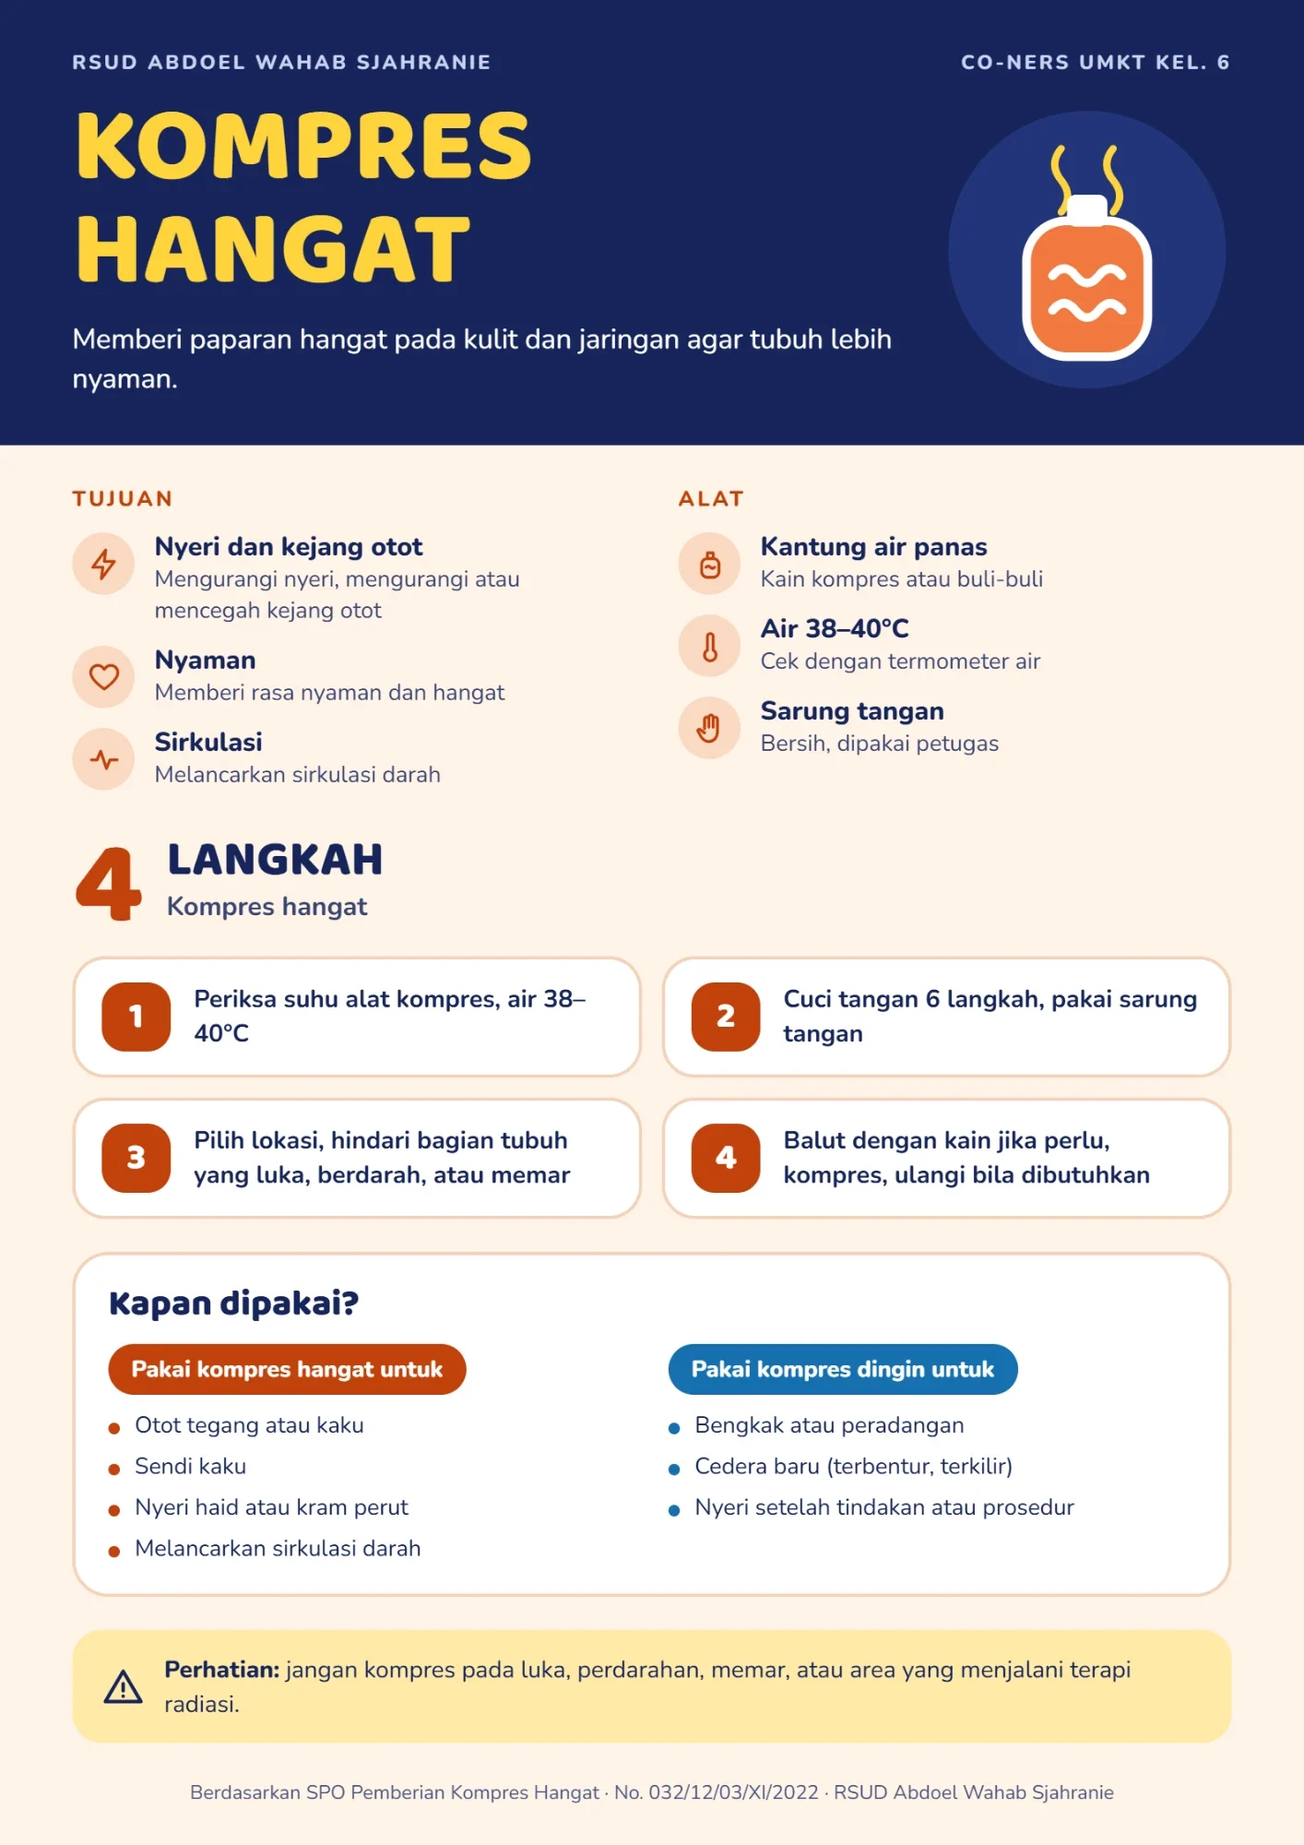
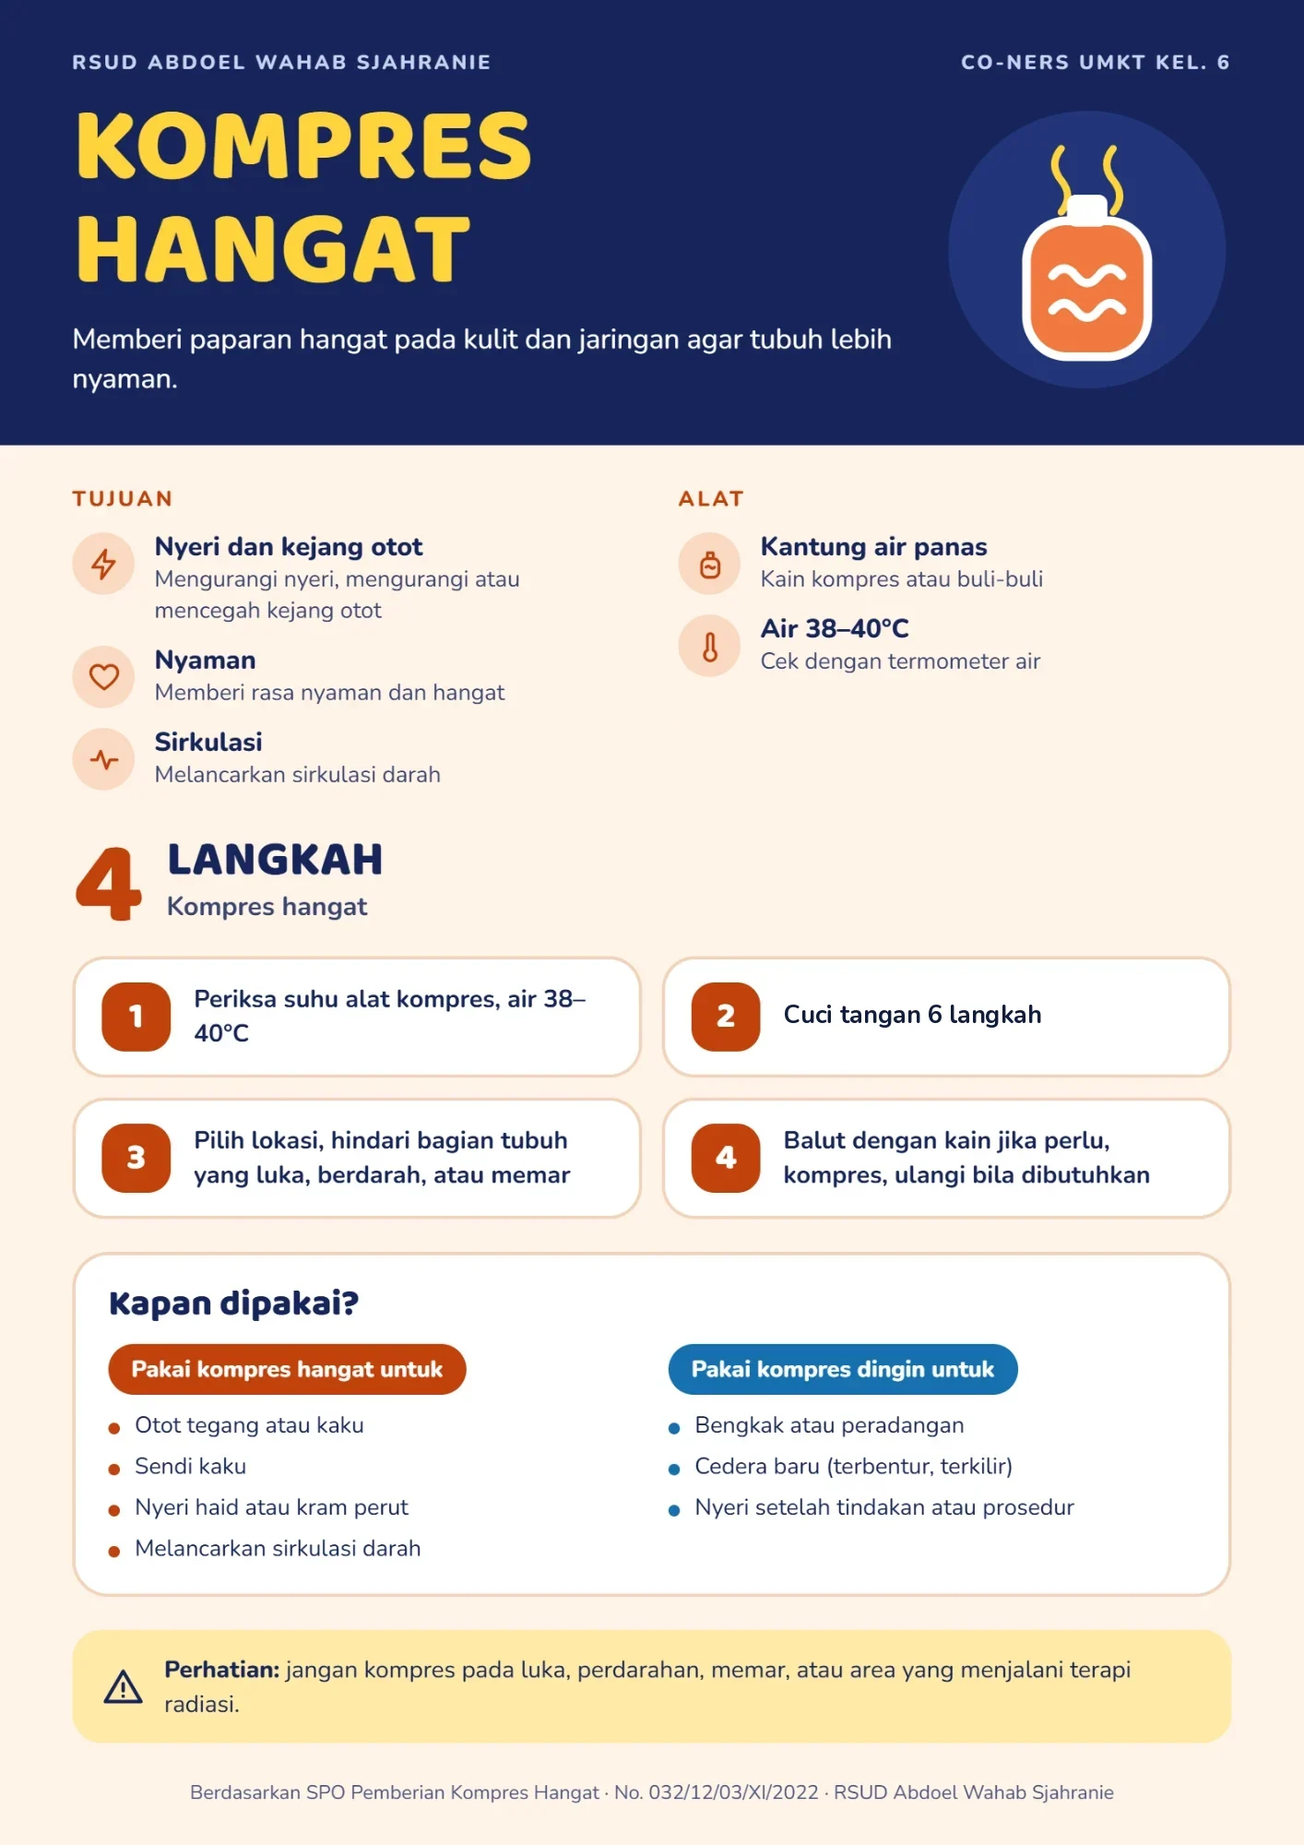
Revisi kompres hangat & dingin (poster + teks), nama ETAM SMART, galeri poster hanya di Manajemen nyeri
Claude-Session: https://claude.ai/code/session_017v6r4Dh7K6F4WkuNDGeXEq

Changed region(s): [[0.5912, 0.527, 0.9335, 0.589], [0.4979, 0.372, 0.7157, 0.434]]

diff --git a/halaman/edukasi/manajemen-nyeri.html b/halaman/edukasi/manajemen-nyeri.html
@@ -3,13 +3,13 @@
 <head>
   <meta charset="utf-8">
   <meta name="viewport" content="width=device-width, initial-scale=1">
-  <title>Manajemen nyeri · Etam Smart RSUD AWS</title>
+  <title>Manajemen nyeri · ETAM SMART RSUD AWS</title>
   <meta name="description" content="Manajemen nyeri tanpa obat untuk pasien RSUD Abdoel Wahab Sjahranie: relaksasi napas dalam, kompres dingin, dan kompres hangat, lengkap dengan poster.">
   <link rel="canonical" href="__SITE_URL__/halaman/edukasi/manajemen-nyeri.html">
   <meta property="og:type" content="website">
-  <meta property="og:site_name" content="Etam Smart · RSUD Abdoel Wahab Sjahranie">
+  <meta property="og:site_name" content="ETAM SMART · RSUD Abdoel Wahab Sjahranie">
   <meta property="og:locale" content="id_ID">
-  <meta property="og:title" content="Manajemen nyeri · Etam Smart RSUD AWS">
+  <meta property="og:title" content="Manajemen nyeri · ETAM SMART RSUD AWS">
   <meta property="og:description" content="Manajemen nyeri tanpa obat untuk pasien RSUD Abdoel Wahab Sjahranie: relaksasi napas dalam, kompres dingin, dan kompres hangat, lengkap dengan poster.">
   <meta property="og:url" content="__SITE_URL__/halaman/edukasi/manajemen-nyeri.html">
   <meta property="og:image" content="__SITE_URL__/assets/img/og.jpg">
@@ -109,13 +109,13 @@
               <li><strong>Peradangan</strong>: mengurangi peradangan</li>
               </ul></div>
               <div><h3 class="h4">Alat</h3><ul class="ticks mt-s">
-              <li><strong>Kompres dingin</strong>: kantung es atau kemasan gel beku</li>
+              <li><strong>Kompres dingin</strong>: kantung es, kemasan gel beku, atau air es/es batu bila tidak ada alat kompres dingin</li>
               <li><strong>Pembalut</strong>: kain atau handuk</li>
               </ul></div>
             </div>
             <h3 class="h4 mt-l">Langkah</h3>
             <ol class="rows mt-s">
-              <li><p class="big">Cuci tangan, pakai sarung tangan, jaga privasi.</p></li>
+              <li><p class="big">Cuci tangan 6 langkah (<a href="cuci-tangan.html">lihat caranya</a>).</p></li>
               <li><p class="big">Pilih alat kompres yang nyaman dan mudah didapat.</p></li>
               <li><p class="big">Pilih lokasi, balut alat dengan kain atau handuk jika perlu.</p></li>
               <li><p class="big">Kompres pada daerah yang sudah dipilih.</p></li>
@@ -164,13 +164,12 @@
               <div><h3 class="h4">Alat</h3><ul class="ticks mt-s">
               <li><strong>Kantung air panas</strong>: kain kompres atau buli-buli</li>
               <li><strong>Air 38–40°C</strong>: cek dengan termometer air</li>
-              <li><strong>Sarung tangan</strong>: bersih, dipakai petugas</li>
               </ul></div>
             </div>
             <h3 class="h4 mt-l">Langkah</h3>
             <ol class="rows mt-s">
               <li><p class="big">Periksa suhu alat kompres, air 38–40°C.</p></li>
-              <li><p class="big">Cuci tangan 6 langkah (<a href="cuci-tangan.html">lihat caranya</a>), pakai sarung tangan.</p></li>
+              <li><p class="big">Cuci tangan 6 langkah (<a href="cuci-tangan.html">lihat caranya</a>).</p></li>
               <li><p class="big">Pilih lokasi, hindari bagian tubuh yang luka, berdarah, atau memar.</p></li>
               <li><p class="big">Balut dengan kain jika perlu, kompres, ulangi bila dibutuhkan.</p></li>
             </ol>

diff --git a/halaman/edukasi/index.html b/halaman/edukasi/index.html
@@ -3,13 +3,13 @@
 <head>
   <meta charset="utf-8">
   <meta name="viewport" content="width=device-width, initial-scale=1">
-  <title>Edukasi pasien · Etam Smart RSUD AWS</title>
+  <title>Edukasi pasien · ETAM SMART RSUD AWS</title>
   <meta name="description" content="Edukasi untuk pasien dan keluarga di RSUD Abdoel Wahab Sjahranie: cuci tangan, pencegahan infeksi, manajemen nyeri, dan pulang dengan aman.">
   <link rel="canonical" href="__SITE_URL__/halaman/edukasi/index.html">
   <meta property="og:type" content="website">
-  <meta property="og:site_name" content="Etam Smart · RSUD Abdoel Wahab Sjahranie">
+  <meta property="og:site_name" content="ETAM SMART · RSUD Abdoel Wahab Sjahranie">
   <meta property="og:locale" content="id_ID">
-  <meta property="og:title" content="Edukasi pasien · Etam Smart RSUD AWS">
+  <meta property="og:title" content="Edukasi pasien · ETAM SMART RSUD AWS">
   <meta property="og:description" content="Edukasi untuk pasien dan keluarga di RSUD Abdoel Wahab Sjahranie: cuci tangan, pencegahan infeksi, manajemen nyeri, dan pulang dengan aman.">
   <meta property="og:url" content="__SITE_URL__/halaman/edukasi/index.html">
   <meta property="og:image" content="__SITE_URL__/assets/img/og.jpg">
@@ -73,29 +73,6 @@
       </div>
     </section>
 
-    <section class="sec bg-2">
-      <div class="wrap">
-        <div class="sec-head">
-          <span class="label reveal"><span class="n">*</span> Poster edukasi</span>
-          <h2 class="h2 reveal">Poster manajemen nyeri</h2>
-          <p class="lead reveal">Ketuk poster untuk membaca penjelasannya, atau buka halaman Manajemen nyeri untuk mengunduh dan mencetaknya.</p>
-        </div>
-        <div class="poster-grid">
-          <a class="poster-thumb reveal" href="manajemen-nyeri.html#relaksasi">
-            <img src="../../assets/img/edukasi/poster/relaksasi-napas-dalam.webp" width="1414" height="2000" alt="Poster Relaksasi napas dalam" loading="lazy">
-            <span>Relaksasi napas dalam</span>
-          </a>
-          <a class="poster-thumb reveal" href="manajemen-nyeri.html#kompres-dingin">
-            <img src="../../assets/img/edukasi/poster/kompres-dingin.webp" width="1414" height="2000" alt="Poster Kompres dingin" loading="lazy">
-            <span>Kompres dingin</span>
-          </a>
-          <a class="poster-thumb reveal" href="manajemen-nyeri.html#kompres-hangat">
-            <img src="../../assets/img/edukasi/poster/kompres-hangat.webp" width="1414" height="2000" alt="Poster Kompres hangat" loading="lazy">
-            <span>Kompres hangat</span>
-          </a>
-        </div>
-      </div>
-    </section>
   </main>
 
   <footer id="site-footer"></footer>

diff --git a/index.html b/index.html
@@ -3,13 +3,13 @@
 <head>
   <meta charset="utf-8">
   <meta name="viewport" content="width=device-width, initial-scale=1">
-  <title>Etam Smart · RSUD Abdoel Wahab Sjahranie Samarinda</title>
+  <title>ETAM SMART · RSUD Abdoel Wahab Sjahranie Samarinda</title>
   <meta name="description" content="Informasi untuk pasien dan keluarga di RSUD Abdoel Wahab Sjahranie Samarinda: profil rumah sakit, ruang rawat inap, edukasi, serta hak dan kewajiban pasien.">
   <link rel="canonical" href="__SITE_URL__/">
   <meta property="og:type" content="website">
-  <meta property="og:site_name" content="Etam Smart · RSUD Abdoel Wahab Sjahranie">
+  <meta property="og:site_name" content="ETAM SMART · RSUD Abdoel Wahab Sjahranie">
   <meta property="og:locale" content="id_ID">
-  <meta property="og:title" content="Etam Smart · RSUD Abdoel Wahab Sjahranie Samarinda">
+  <meta property="og:title" content="ETAM SMART · RSUD Abdoel Wahab Sjahranie Samarinda">
   <meta property="og:description" content="Informasi untuk pasien dan keluarga di RSUD Abdoel Wahab Sjahranie Samarinda: profil rumah sakit, ruang rawat inap, edukasi, serta hak dan kewajiban pasien.">
   <meta property="og:url" content="__SITE_URL__/">
   <meta property="og:image" content="__SITE_URL__/assets/img/og.jpg">
@@ -35,12 +35,12 @@
       <div class="wrap">
         <div class="hero-title">
           <h1 class="display">
-            <span class="line"><span>Etam Smart</span></span>
+            <span class="line"><span>ETAM SMART</span></span>
             <span class="line"><span><em>RSUD Abdoel Wahab Sjahranie</em></span></span>
           </h1>
         </div>
         <div class="hero-foot">
-          <p>Etam Smart adalah layanan informasi untuk pasien dan keluarga RSUD AWS: profil rumah sakit, ruang rawat inap, edukasi pencegahan infeksi, serta hak dan kewajiban pasien.</p>
+          <p>ETAM SMART adalah layanan informasi untuk pasien dan keluarga RSUD AWS: profil rumah sakit, ruang rawat inap, edukasi pencegahan infeksi, serta hak dan kewajiban pasien.</p>
           <div>
             <span class="k">Telepon</span>
             <span class="v" data-site="telpRs"></span>

diff --git a/halaman/hak-kewajiban.html b/halaman/hak-kewajiban.html
@@ -3,13 +3,13 @@
 <head>
   <meta charset="utf-8">
   <meta name="viewport" content="width=device-width, initial-scale=1">
-  <title>Hak & Kewajiban Pasien · Etam Smart RSUD AWS</title>
+  <title>Hak & Kewajiban Pasien · ETAM SMART RSUD AWS</title>
   <meta name="description" content="Hak dan kewajiban pasien menurut Undang-Undang Nomor 17 Tahun 2023 tentang Kesehatan, dan cara menyampaikan keluhan di RSUD Abdoel Wahab Sjahranie.">
   <link rel="canonical" href="__SITE_URL__/halaman/hak-kewajiban.html">
   <meta property="og:type" content="website">
-  <meta property="og:site_name" content="Etam Smart · RSUD Abdoel Wahab Sjahranie">
+  <meta property="og:site_name" content="ETAM SMART · RSUD Abdoel Wahab Sjahranie">
   <meta property="og:locale" content="id_ID">
-  <meta property="og:title" content="Hak &amp; Kewajiban Pasien · Etam Smart RSUD AWS">
+  <meta property="og:title" content="Hak &amp; Kewajiban Pasien · ETAM SMART RSUD AWS">
   <meta property="og:description" content="Hak dan kewajiban pasien menurut Undang-Undang Nomor 17 Tahun 2023 tentang Kesehatan, dan cara menyampaikan keluhan di RSUD Abdoel Wahab Sjahranie.">
   <meta property="og:url" content="__SITE_URL__/halaman/hak-kewajiban.html">
   <meta property="og:image" content="__SITE_URL__/assets/img/og.jpg">

diff --git a/halaman/edukasi/pencegahan-infeksi.html b/halaman/edukasi/pencegahan-infeksi.html
@@ -3,13 +3,13 @@
 <head>
   <meta charset="utf-8">
   <meta name="viewport" content="width=device-width, initial-scale=1">
-  <title>Pencegahan infeksi · Etam Smart RSUD AWS</title>
+  <title>Pencegahan infeksi · ETAM SMART RSUD AWS</title>
   <meta name="description" content="Cara mencegah infeksi bagi pasien dan pengunjung RSUD Abdoel Wahab Sjahranie: cuci tangan, masker, etika batuk, dan kebersihan.">
   <link rel="canonical" href="__SITE_URL__/halaman/edukasi/pencegahan-infeksi.html">
   <meta property="og:type" content="website">
-  <meta property="og:site_name" content="Etam Smart · RSUD Abdoel Wahab Sjahranie">
+  <meta property="og:site_name" content="ETAM SMART · RSUD Abdoel Wahab Sjahranie">
   <meta property="og:locale" content="id_ID">
-  <meta property="og:title" content="Pencegahan infeksi · Etam Smart RSUD AWS">
+  <meta property="og:title" content="Pencegahan infeksi · ETAM SMART RSUD AWS">
   <meta property="og:description" content="Cara mencegah infeksi bagi pasien dan pengunjung RSUD Abdoel Wahab Sjahranie: cuci tangan, masker, etika batuk, dan kebersihan.">
   <meta property="og:url" content="__SITE_URL__/halaman/edukasi/pencegahan-infeksi.html">
   <meta property="og:image" content="__SITE_URL__/assets/img/og.jpg">

diff --git a/halaman/ruangan/teratai/index.html b/halaman/ruangan/teratai/index.html
@@ -3,13 +3,13 @@
 <head>
   <meta charset="utf-8">
   <meta name="viewport" content="width=device-width, initial-scale=1">
-  <title>Ruang Teratai · Etam Smart RSUD AWS</title>
+  <title>Ruang Teratai · ETAM SMART RSUD AWS</title>
   <meta name="description" content="Ruang Teratai, ruang rawat inap RSUD Abdoel Wahab Sjahranie Samarinda: petugas, denah, fasilitas, tata tertib, dan jadwal harian.">
   <link rel="canonical" href="__SITE_URL__/halaman/ruangan/teratai/index.html">
   <meta property="og:type" content="website">
-  <meta property="og:site_name" content="Etam Smart · RSUD Abdoel Wahab Sjahranie">
+  <meta property="og:site_name" content="ETAM SMART · RSUD Abdoel Wahab Sjahranie">
   <meta property="og:locale" content="id_ID">
-  <meta property="og:title" content="Ruang Teratai · Etam Smart RSUD AWS">
+  <meta property="og:title" content="Ruang Teratai · ETAM SMART RSUD AWS">
   <meta property="og:description" content="Ruang Teratai, ruang rawat inap RSUD Abdoel Wahab Sjahranie Samarinda: petugas, denah, fasilitas, tata tertib, dan jadwal harian.">
   <meta property="og:url" content="__SITE_URL__/halaman/ruangan/teratai/index.html">
   <meta property="og:image" content="__SITE_URL__/assets/img/og.jpg">

diff --git a/halaman/edukasi/pulang.html b/halaman/edukasi/pulang.html
@@ -3,13 +3,13 @@
 <head>
   <meta charset="utf-8">
   <meta name="viewport" content="width=device-width, initial-scale=1">
-  <title>Pulang dengan aman · Etam Smart RSUD AWS</title>
+  <title>Pulang dengan aman · ETAM SMART RSUD AWS</title>
   <meta name="description" content="Persiapan sebelum pasien pulang dari RSUD Abdoel Wahab Sjahranie dan tanda bahaya yang perlu diwaspadai keluarga di rumah.">
   <link rel="canonical" href="__SITE_URL__/halaman/edukasi/pulang.html">
   <meta property="og:type" content="website">
-  <meta property="og:site_name" content="Etam Smart · RSUD Abdoel Wahab Sjahranie">
+  <meta property="og:site_name" content="ETAM SMART · RSUD Abdoel Wahab Sjahranie">
   <meta property="og:locale" content="id_ID">
-  <meta property="og:title" content="Pulang dengan aman · Etam Smart RSUD AWS">
+  <meta property="og:title" content="Pulang dengan aman · ETAM SMART RSUD AWS">
   <meta property="og:description" content="Persiapan sebelum pasien pulang dari RSUD Abdoel Wahab Sjahranie dan tanda bahaya yang perlu diwaspadai keluarga di rumah.">
   <meta property="og:url" content="__SITE_URL__/halaman/edukasi/pulang.html">
   <meta property="og:image" content="__SITE_URL__/assets/img/og.jpg">

diff --git a/halaman/edukasi/cuci-tangan.html b/halaman/edukasi/cuci-tangan.html
@@ -3,13 +3,13 @@
 <head>
   <meta charset="utf-8">
   <meta name="viewport" content="width=device-width, initial-scale=1">
-  <title>Cuci tangan · Etam Smart RSUD AWS</title>
+  <title>Cuci tangan · ETAM SMART RSUD AWS</title>
   <meta name="description" content="Kapan harus mencuci tangan dan 6 langkah mencuci tangan menurut WHO, untuk pasien dan pengunjung RSUD Abdoel Wahab Sjahranie.">
   <link rel="canonical" href="__SITE_URL__/halaman/edukasi/cuci-tangan.html">
   <meta property="og:type" content="website">
-  <meta property="og:site_name" content="Etam Smart · RSUD Abdoel Wahab Sjahranie">
+  <meta property="og:site_name" content="ETAM SMART · RSUD Abdoel Wahab Sjahranie">
   <meta property="og:locale" content="id_ID">
-  <meta property="og:title" content="Cuci tangan · Etam Smart RSUD AWS">
+  <meta property="og:title" content="Cuci tangan · ETAM SMART RSUD AWS">
   <meta property="og:description" content="Kapan harus mencuci tangan dan 6 langkah mencuci tangan menurut WHO, untuk pasien dan pengunjung RSUD Abdoel Wahab Sjahranie.">
   <meta property="og:url" content="__SITE_URL__/halaman/edukasi/cuci-tangan.html">
   <meta property="og:image" content="__SITE_URL__/assets/img/og.jpg">

diff --git a/halaman/ruangan.html b/halaman/ruangan.html
@@ -3,13 +3,13 @@
 <head>
   <meta charset="utf-8">
   <meta name="viewport" content="width=device-width, initial-scale=1">
-  <title>Ruangan · Etam Smart RSUD AWS</title>
+  <title>Ruangan · ETAM SMART RSUD AWS</title>
   <meta name="description" content="Pilih ruang rawat inap RSUD Abdoel Wahab Sjahranie untuk melihat informasi petugas, denah, fasilitas, dan tata tertibnya.">
   <link rel="canonical" href="__SITE_URL__/halaman/ruangan.html">
   <meta property="og:type" content="website">
-  <meta property="og:site_name" content="Etam Smart · RSUD Abdoel Wahab Sjahranie">
+  <meta property="og:site_name" content="ETAM SMART · RSUD Abdoel Wahab Sjahranie">
   <meta property="og:locale" content="id_ID">
-  <meta property="og:title" content="Ruangan · Etam Smart RSUD AWS">
+  <meta property="og:title" content="Ruangan · ETAM SMART RSUD AWS">
   <meta property="og:description" content="Pilih ruang rawat inap RSUD Abdoel Wahab Sjahranie untuk melihat informasi petugas, denah, fasilitas, dan tata tertibnya.">
   <meta property="og:url" content="__SITE_URL__/halaman/ruangan.html">
   <meta property="og:image" content="__SITE_URL__/assets/img/og.jpg">

diff --git a/halaman/profil.html b/halaman/profil.html
@@ -3,13 +3,13 @@
 <head>
   <meta charset="utf-8">
   <meta name="viewport" content="width=device-width, initial-scale=1">
-  <title>Profil RS · Etam Smart RSUD AWS</title>
+  <title>Profil RS · ETAM SMART RSUD AWS</title>
   <meta name="description" content="Profil RSUD Abdoel Wahab Sjahranie Samarinda: sejarah, visi, misi, nilai, dan layanan unggulan.">
   <link rel="canonical" href="__SITE_URL__/halaman/profil.html">
   <meta property="og:type" content="website">
-  <meta property="og:site_name" content="Etam Smart · RSUD Abdoel Wahab Sjahranie">
+  <meta property="og:site_name" content="ETAM SMART · RSUD Abdoel Wahab Sjahranie">
   <meta property="og:locale" content="id_ID">
-  <meta property="og:title" content="Profil RS · Etam Smart RSUD AWS">
+  <meta property="og:title" content="Profil RS · ETAM SMART RSUD AWS">
   <meta property="og:description" content="Profil RSUD Abdoel Wahab Sjahranie Samarinda: sejarah, visi, misi, nilai, dan layanan unggulan.">
   <meta property="og:url" content="__SITE_URL__/halaman/profil.html">
   <meta property="og:image" content="__SITE_URL__/assets/img/og.jpg">

diff --git a/halaman/review.html b/halaman/review.html
@@ -3,13 +3,13 @@
 <head>
   <meta charset="utf-8">
   <meta name="viewport" content="width=device-width, initial-scale=1">
-  <title>Review · Etam Smart RSUD AWS</title>
+  <title>Review · ETAM SMART RSUD AWS</title>
   <meta name="description" content="Beri penilaian dan saran untuk situs informasi pasien RSUD Abdoel Wahab Sjahranie.">
   <link rel="canonical" href="__SITE_URL__/halaman/review.html">
   <meta property="og:type" content="website">
-  <meta property="og:site_name" content="Etam Smart · RSUD Abdoel Wahab Sjahranie">
+  <meta property="og:site_name" content="ETAM SMART · RSUD Abdoel Wahab Sjahranie">
   <meta property="og:locale" content="id_ID">
-  <meta property="og:title" content="Review · Etam Smart RSUD AWS">
+  <meta property="og:title" content="Review · ETAM SMART RSUD AWS">
   <meta property="og:description" content="Beri penilaian dan saran untuk situs informasi pasien RSUD Abdoel Wahab Sjahranie.">
   <meta property="og:url" content="__SITE_URL__/halaman/review.html">
   <meta property="og:image" content="__SITE_URL__/assets/img/og.jpg">

diff --git a/assets/js/main.js b/assets/js/main.js
@@ -4,7 +4,7 @@
    ========================================================= */
 
 const SITE = {
-  app: "Etam Smart",            // nama aplikasi/situs
+  app: "ETAM SMART",            // nama aplikasi/situs
   rs: "RSUD Abdoel Wahab Sjahranie",
   rsPendek: "RSUD AWS",
   kota: "Samarinda, Kalimantan Timur",
@@ -240,7 +240,7 @@ function renderFooter() {
           </ul>
         </div>
       </div>
-      <div class="foot-word" aria-hidden="true">Etam <em>Smart</em></div>
+      <div class="foot-word" aria-hidden="true">ETAM <em>SMART</em></div>
       <div class="foot-bottom">
         <span>&copy; ${new Date().getFullYear()} ${SITE.app} · ${SITE.rs}, ${SITE.kota}. Hak cipta dilindungi.</span>
         <span>Keadaan darurat di kamar: tekan bel pasien atau panggil perawat jaga.</span>
